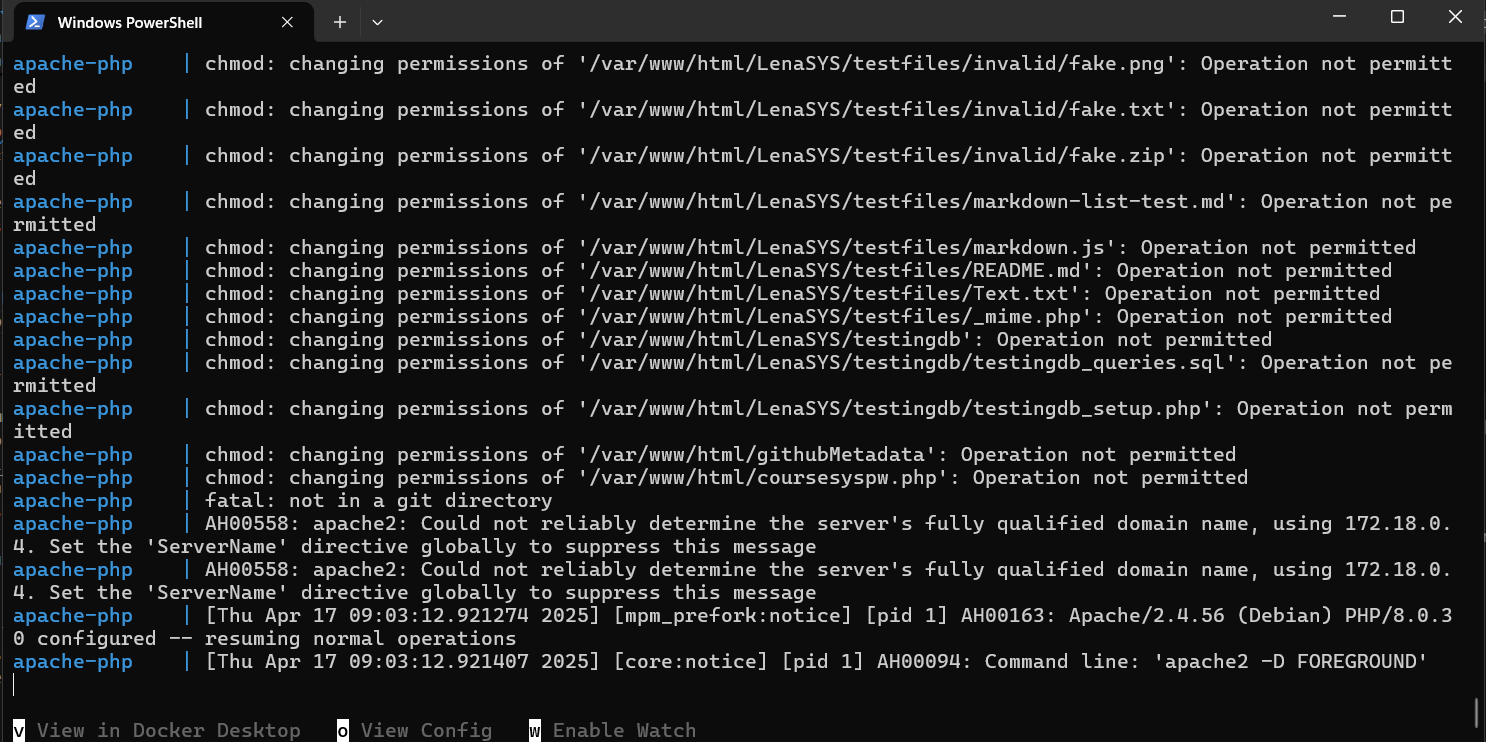
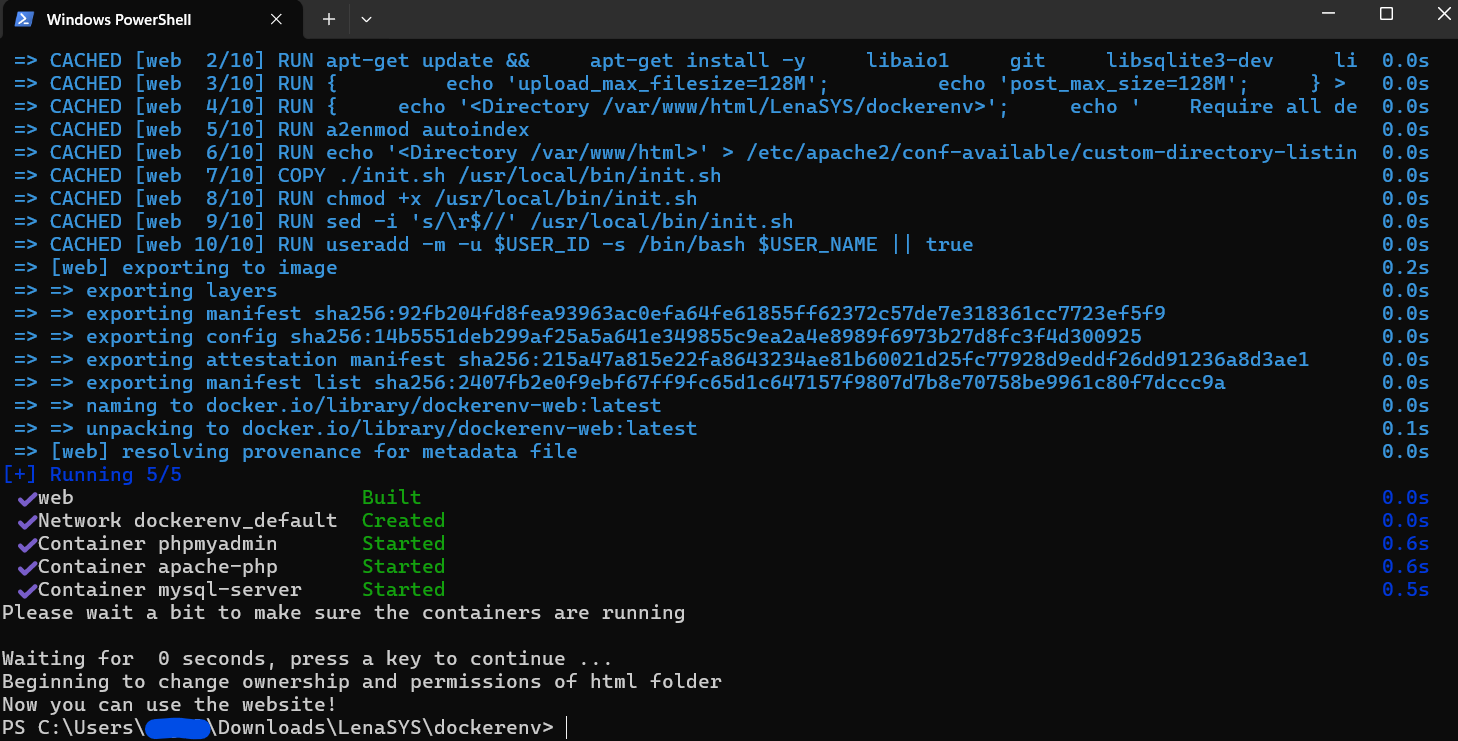
updated docker

Changed region(s): [[0.0, 0.0, 1.0, 1.0], [0.9877, 0.9312, 1.0, 0.9933]]

diff --git a/README.md b/README.md
@@ -56,7 +56,7 @@ When you have installed your Docker desktop, you can run Docker containers, but 
 - **On macOS/Linux:** There is a `setup.sh` script and run one of the following commands: `sudo ./setup.sh` or, if the the first command doesn't work, then run `sudo bash ./setup.sh`. If you can't run the script, make sure it is executable. To do so, type `sudo chmod +x setup.sh`. Then try running the script again. The `./setup.sh` script does changes file permissions and ownership for entire LenaSYS folder and builds the Docker containers. If none of them steps work, then try to follow to change the file permissions [here](#using-linux-or-mac), and then run the script again.
 <img src="Shared/Documentation/docker_images/terminal4.png" width="512">
 
-6. Docker has finished building images and containers when the terminal stops printing out or/and shows a blue apache-php name. NOTE: Do not close down the terminal while docker is running, otherwise containers will shutdown.
+6. Docker has finished building images and containers and you need to wait for 10 seconds to allow the script to set the permissions and ownerships. Once the terminal stops printing output and shows the message `Now you can use the website!`, then you can proceed to the next step. NOTE: To shutdown the Docker containers run: `docker compose down`. Make sure you are in the `LenaSYS/dockerenv/` directory when running this command.
 <img src="Shared/Documentation/docker_images/terminal5.png" width="512">
 
 7. Now go to Docker desktop and you can see a menu which says images and containers. Press the containers from the menu and here you can see there are three containers and each one has green-circle which means they are running. If you can not see three containers, then you need to press `drop-down`-button
@@ -81,7 +81,7 @@ After changing the file permissions recursively over the repository, all the fil
 
 ### Stop containers in Docker
 
-1. To stop running containers, open the terminal where docker is running press `ctrl-c` and wait until all three containers says stopped. NOTE: If your terminal says all three are stopped, but your username does not appear in your terminal, then press the up- or down-arrow keys to show your username.
+1. To stop the running containers, open a terminal and navigate to the `LenaSYS/dockerenv/` directory and run: `docker stop $(docker ps -aq)`.
 <img src="Shared/Documentation/docker_images/terminal6.png" width="512">
 
 2. If you go back to Docker desktop and go to containers, you can see three containers are not running, shown by the gray circles. Now containers are not running.
@@ -91,16 +91,13 @@ After changing the file permissions recursively over the repository, all the fil
 
 1. If you want remove all containers, then first stop running containers which you can follow this step [stop containers in Docker](#stop-containers-in-docker).
 
-2. After that run the command: `docker compose down` in the terminal.
+2. To remove the containers, open a terminal and navigate to the `LenaSYS/dockerenv/` directory and run: `docker compose down`. Now your terminal says removed which means containers are removed.
 <img src="Shared/Documentation/docker_images/terminal7.png" width="512">
 
-3. Now your terminal says removed which means containers are removed.
-<img src="Shared/Documentation/docker_images/terminal8.png" width="512">
-
-4. You can check in Docker desktop and press containers. Here you can see that all containers are gone.
+3. You can check in Docker desktop and press containers. Here you can see that all containers are gone.
 <img src="Shared/Documentation/docker_images/dockerContainers2.png" width="512">
 
-5. To remove all images to free up space, you need to press images in Docker desktop and select all checkboxes. When all selected,  press `Delete`-button and it will show a pop-up if you want to delete, press `Delete forever`-button. Now you have successful removed all containers and images.
+4. To remove all images to free up space, you need to press images in Docker desktop and select all checkboxes. When all selected,  press `Delete`-button and it will show a pop-up if you want to delete, press `Delete forever`-button. Now you have successful removed all containers and images.
 <img src="Shared/Documentation/docker_images/dockerimages.png" width="512">
 
 ### Stop running or pause Docker desktop
